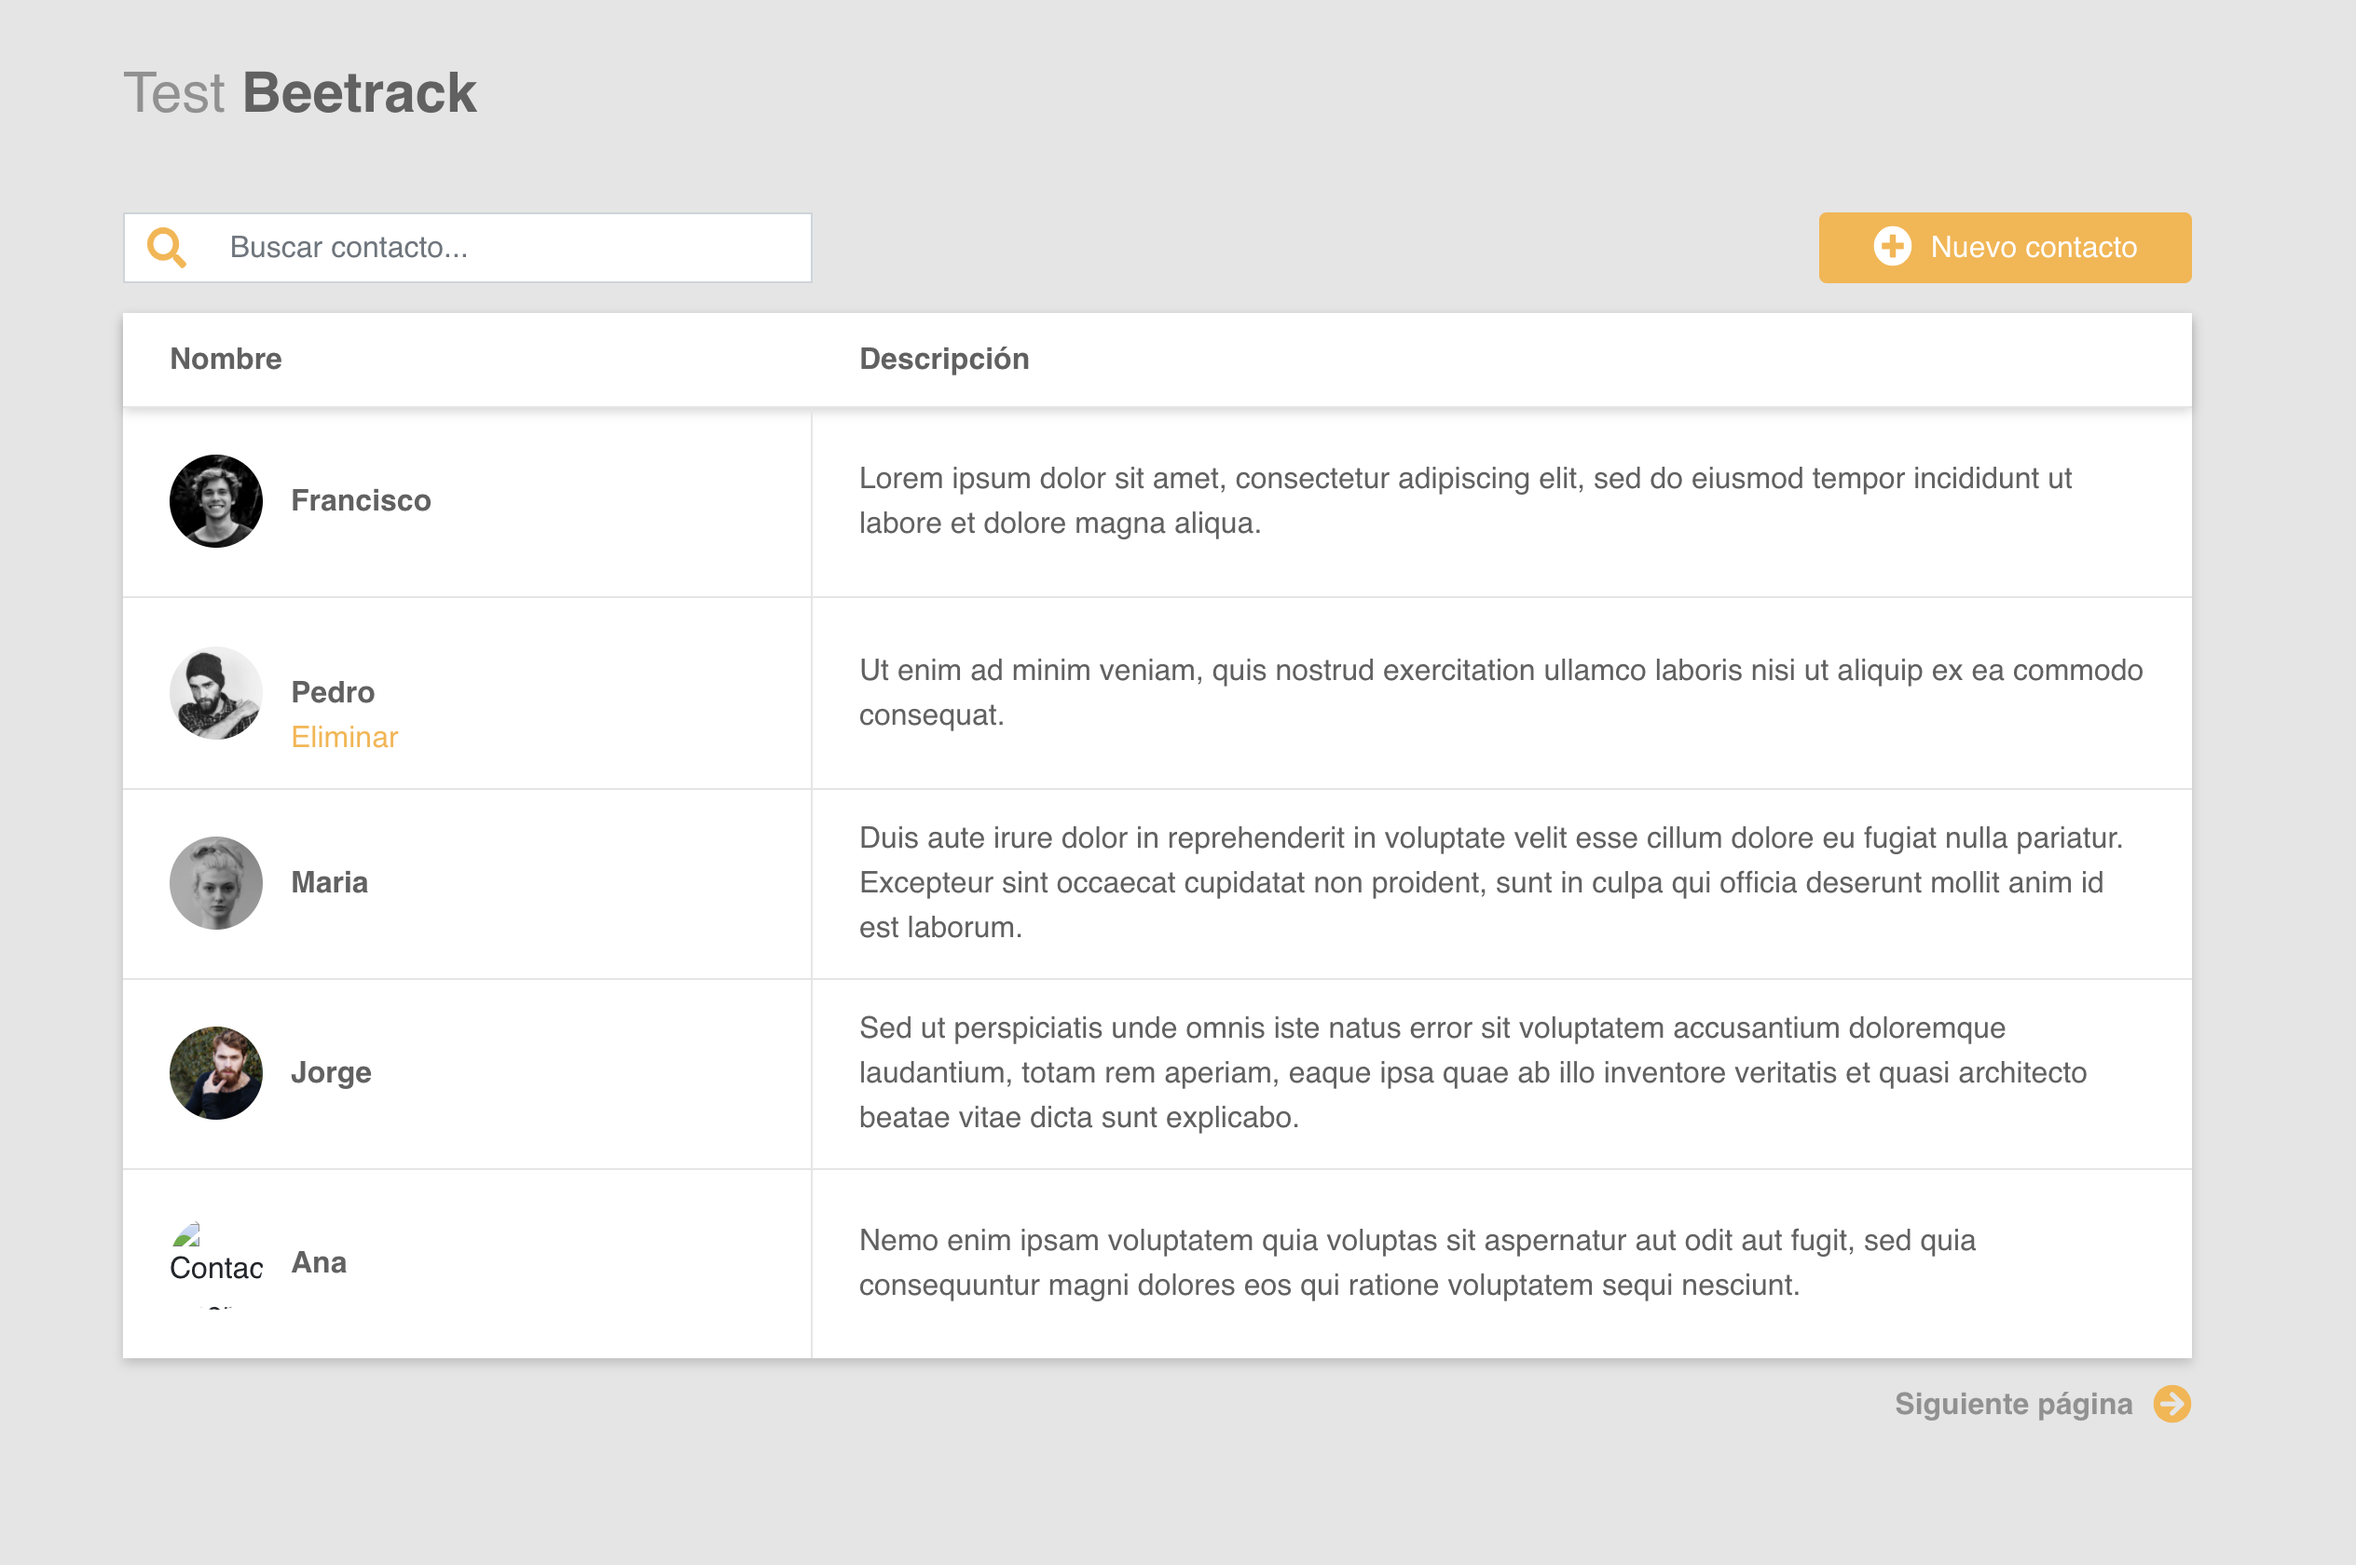
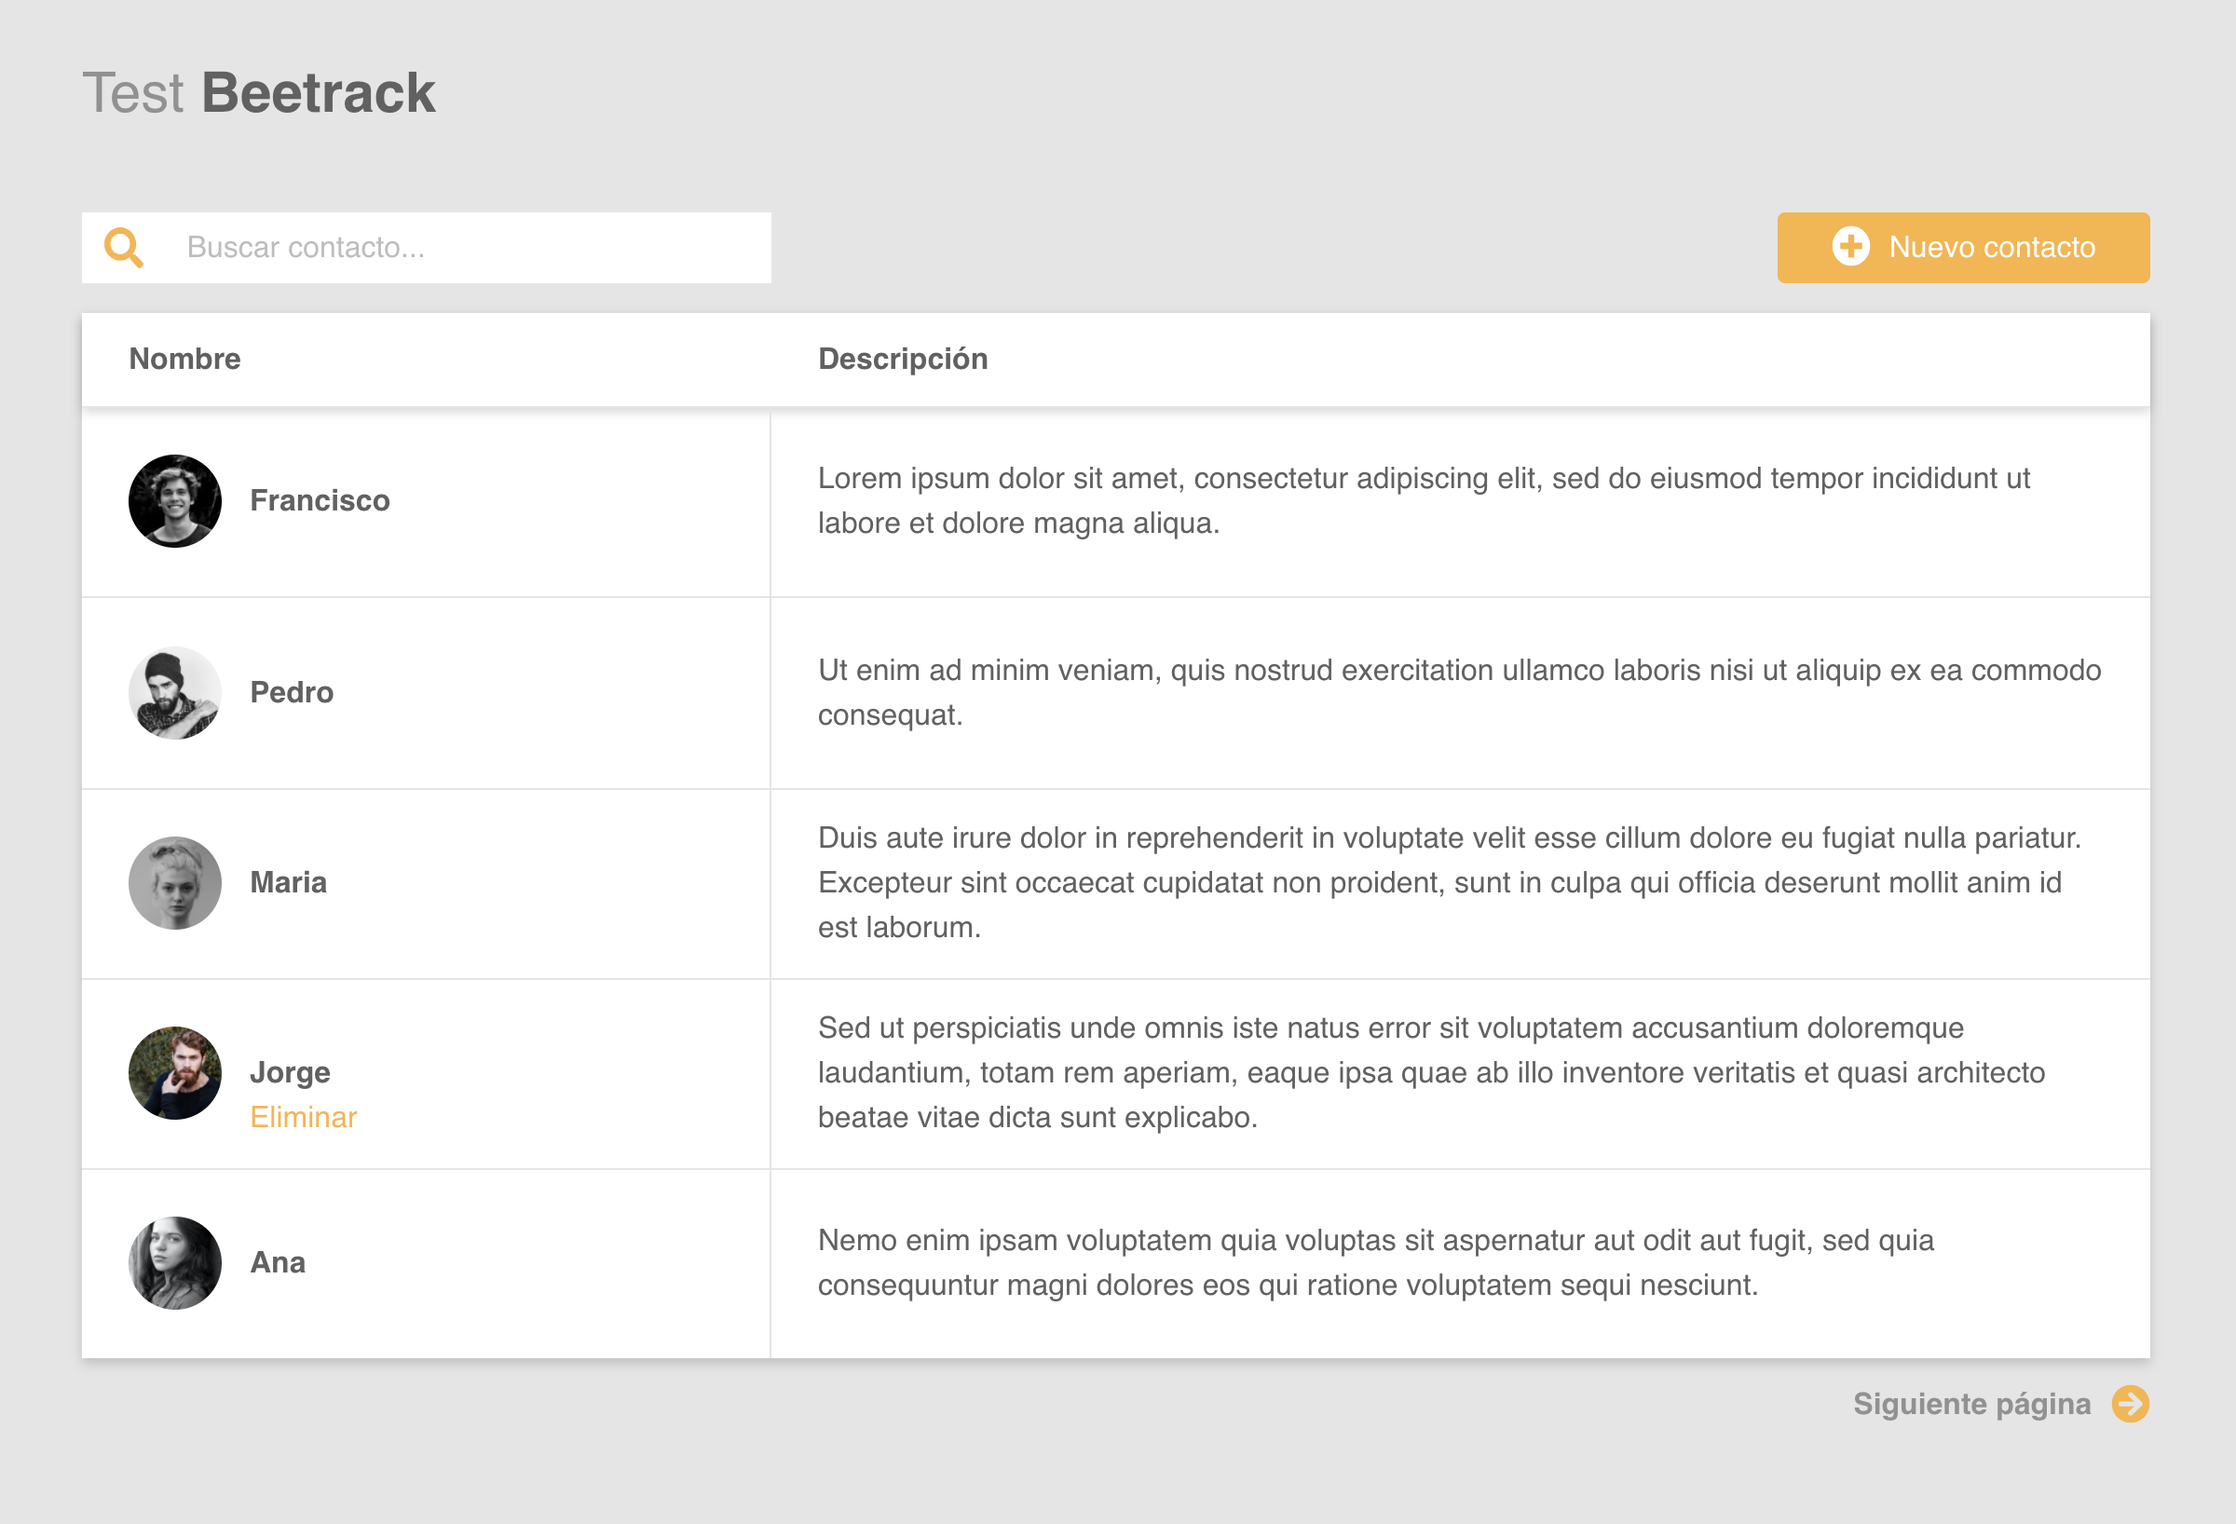
finish readme

Changed region(s): [[0.0312, 0.1247, 0.9688, 0.9352], [0.0312, 0.0312, 0.2188, 0.0935]]

diff --git a/client/src/components/search-input/search-input.jsx b/client/src/components/search-input/search-input.jsx
@@ -25,7 +25,7 @@ const SearchInput = (props) => {
   return (
     <div className="input-group search-input no-border-radius">
       <div className="input-group-prepend">
-        <span className="input-group-text bg-white no-border-right" id="search-input">
+        <span className="input-group-text bg-white no-border" id="search-input">
           <FontAwesomeIcon icon="search" size="lg" color="#fab43d" />
         </span>
       </div>
@@ -33,7 +33,7 @@ const SearchInput = (props) => {
         onChange={handleTextChange}
         value={search}
         type="text"
-        className="form-control no-border-left"
+        className="form-control no-border"
         placeholder={placeholder}
       />
     </div>

diff --git a/client/src/components/search-input/search-input.scss b/client/src/components/search-input/search-input.scss
@@ -1,5 +1,8 @@
+@import '../../assets/_colors.scss';
+
 .square-borders {
   border-radius: 0;
+  border: 0;
 }
 
 .no-border-left {
@@ -8,6 +11,10 @@
 
 .no-border-right {
   border-right: none !important;
+}
+
+.no-border {
+  border: none !important;
 }
 
 .no-border-radius {
@@ -21,5 +28,9 @@
     box-shadow: none;
     border: 1px solid #ced4da;
     outline: 0 none;    
+  }
+  ::placeholder {
+    color: $beetrack-light-gray;
+    opacity: 0.6;
   }
 }

diff --git a/README.md b/README.md
@@ -1,64 +1,8 @@
-## Beetrack Front-end Test
+# Beetrack Front-end Test - Vicente Fuenzalida
 
-### Introducción
+En primer lugar, se incluyó la aplicación en React en el directorio `/client` del proyecto original.
 
-La siguiente prueba busca evaluar los conocimientos en javascript, css y html. Para consultas, enviar un correo a [dev@beetrack.com](mailto:dev@beetrack.com).
-
-### Descripción e instalación
-
-Se adjunta un proyecto de nodejs, con una pequeña base de datos y una api ya desarrollada. Para ejecutar el proyecto, una vez descargado hay que correr las siguientes líneas por línea de comandos en el root del proyecto:
-
-```
-npm install
-node server.js
-```
-
-Los requisitos son únicamente tener instalado una versión de `node >= 4` y `npm`.
-Si todo funcionó correctamente, va a correr el servidor, y vas a poder acceder a través de cualquier navegador en la dirección: [localhost:3000](http://localhost:3000). Se debería visualizar el html ubicado en `public/index.html`.
-
-### Desarrollo
-
-El objectivo del test es desarrollar 2 vistas utilizando la api incluida en el proyecto.
-
-La primera consiste en una lista paginada de usuarios con un buscador. Se debe visualizar la imagen del usuario con su respectivo nombre, y la descripción al lado, como se ve a continuación:
-
-![alt text](./contacts_index.png "Users list")
-
-Al hacer hover en una fila, se debe mostrar un vínculo para eliminar dicho usuario a través de un AJAX. No es necesario que el paginador muestra el número de páginas; sólo un link para ir a la siguiente o la anterior.
-
-La segunda vista consiste en el formulario para agregar un usuario. Se gatilla como modal al presionar el botón de `Nuevo Contacto` de la vista anterior. La única validación que debe hacer este formulario, es que verifique que se incluyen todos los campos. Una vez completado, al presionar el botón `Guardar` debe enviar la información por AJAX a la api para crear el usuario. La vista se muestra a continuación:
-
-![alt text](./new_contact.png "New Contact")
-
-### Descripción de la API
-
-El proyecto incluye la api y la base de datos de almacenamiento. La api es REST, y a continuación se especifican sus métodos:
-
-| Método HTTP | Ruta           | Descripción                                                                                                                                                                                                            |
-| ----------- | :------------- | ---------------------------------------------------------------------------------------------------------------------------------------------------------------------------------------------------------------------- |
-| GET         | /api/users     | Devuelve la lista de todos los usuarios. Para paginar necesita recibir adicionalmente los parámetros `_page` y `_limit` : `/api/users?_page=2&_limit=10`. Para buscar, necesita el parámetro `q`: `/api/users?q=texto` |
-| GET         | /api/users/:id | Devuelve únicamente el usuario especificado por el id                                                                                                                                                                  |
-| POST        | /api/users     | Crea un usuario nuevo. Debe incluir el header `Content-Type: application/json`, y los parámetros en formato JSON. Ej: `{"name": "Algún nombre","description": "Alguna descripción","photo": "Alguna URL"}`             |
-| DELETE      | /api/users/:id | Elimina el usuario correspondiente al id dado.                                                                                                                                                                         |
-
-### Criterios de evaluación
-
-Se pide específicamente el uso de [React](https://facebook.github.io/react/). Dará un valor adicional, aunque no es obligatorio, el uso además de [Redux](https://redux.js.org). Adicionalmente se evaluarán los siguientes puntos:
-
-1. Utilización de patrones, buenas prácticas en el código y arquitectura acorde
-2. Documentación en el código
-3. Diseño lo más similar posible a las imágenes mostradas más arriba
-4. Tiempo en realizar la tarea
-
-### Plazos y envío
-
-Esta prueba no considera plazos máximos de entrega, pero el tiempo es un criterio de evaluación, por lo que se espera una buen balance entre calidad y el tiempo usado. Una vez terminada la tarea, por favor adjuntar el proyecto modificado, y enviarlo a [dev@beetrack.com](mailto:dev@beetrack.com). Se recibirá sólo una entrega por candidato (solamente la primera), por lo tanto enviar cuando esté completamente listo.
-
-# Test Beetrack - Vicente Fuenzalida
-
-Se incluyó el proyecto en React en el directorio `/client` del proyecto original.
-
-Para lograr esto, se utilizó:
+Para desarrollar el proyecto, se utilizaron las siguientes tecnologías (principales):
 
 - React v16.13.1
 - Redux v7.2.0
@@ -72,40 +16,40 @@ Para desarrollar el proyecto, se utilizó Nodejs v14.1.0 y npm v6.14.4.
 
 1. En el directorio raíz del proyecto, instalar las dependencias para json-server:
 
-   \$ npm install
+         $ npm install
 
-2. Levantar el servidor (puerto 3000):
+2. Levantar el servidor (PORT 3000):
 
-   \$ npm start
+         $ npm start
 
-Ahora se preparará, en una nueva terminal, el proyecto de Frontend en React.
+Ahora, en una nueva terminal, se prepara el proyecto de Frontend en React.
 
 3. Avanzar al directorio del proyecto, ubicado en `/client`:
 
-   \$ cd client
+         $ cd client
 
 4. Instalar las dependencias del proyecto de Frontend:
 
-   \$ npm install
+         $ npm install
 
-5. Iniciar servidor webpack (puerto 3001):
+5. Iniciar servidor webpack (PORT    3001):
 
-   \$ npm start
+         $ npm start
 
 Ahora podemos visitar la página http://localhost:3001 para visualizar el resultado.
 
 ## Uso de la aplicación
 
-La aplicación permite crear, eliminar y buscar usuarios, llamando a la API provista.
-Se muestran los resultados paginados de a 5, y la búsqueda realiza consultas al cambiar su input (tiene un debouncer para disminuir la tasa de requests realizadas).
+La aplicación permite visualizar, crear, eliminar y buscar usuarios, llamando a la API provista.
+Se muestran los resultados paginados de a 5, y la búsqueda realiza consultas al cambiar su *input* (tiene un *debouncer* para disminuir la tasa de requests realizadas).
 
 Se utilizó Redux para mantener la información de los contactos mostrados (paginados) así como información propia de la paginación (página anterior, siguiente, límite, etc).
 
-Además, se utilizó Redux Thunk para crear Acciones asíncronas que manejaran las requests realizadas a la API, y distintos hooks para acceder al estado de la store de Redux.
+Además, se utilizó Redux Thunk para crear Acciones asíncronas que manejan las requests realizadas a la API, y distintos Hooks de Redux para acceder al estado de la store de Redux.
 
-También se utilizaron hooks de React para generar contextos, estados locales y callbacks.
+También se utilizaron Hooks de React para generar contextos, estados locales y callbacks.
 
-## Componentes
+## Estructura
 
 La aplicación se estructura en 4 partes principales:
 
@@ -140,6 +84,8 @@ Cliente que permite consumir la API de usuarios y provee métodos para ser utili
 Incluye `actions`, `reducers` y la definición de la `store` global de Redux (junto a los middlewares a utilizar).
 
 # Interfaces
+
+Tal como se pidió, se buscó replicar la UI presentada en las instrucciones, y los resultados son los siguientes:
 
 ## 1. Contacts Index:
 
